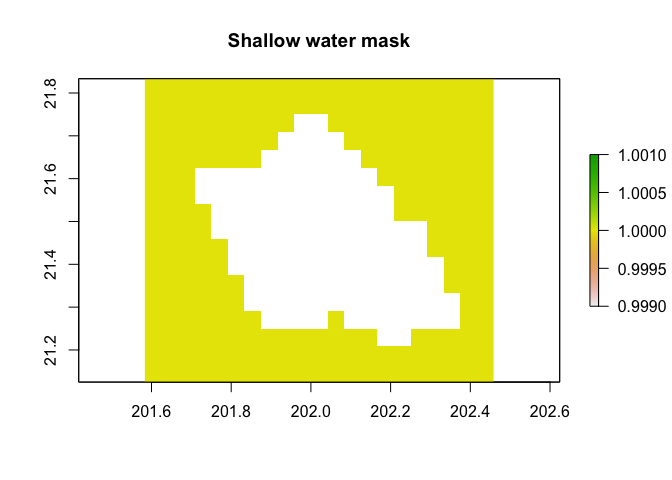
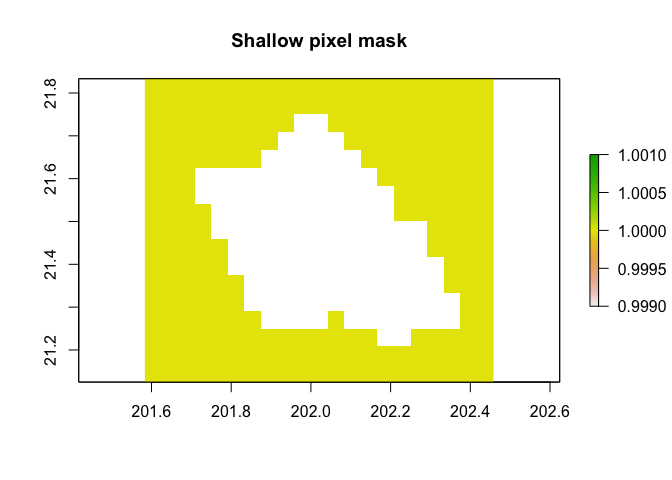
Structured code to put it into a template

Changed region(s): [[0.3438, 0.0625, 0.625, 0.125]]

diff --git a/mask-shallow-ocean-color/mask-shallow-ocean-color.md b/mask-shallow-ocean-color/mask-shallow-ocean-color.md
@@ -144,18 +144,18 @@ within each ocean color pixel is in shallow water (&lt;30m depth).
 
     # Build a raster of the chl-a grid, using the function to generate the shallow water area percentage to consider a pixel necessary to mask
     per_shallow =  rasterize(x = df_bathy,y=r_chl,fun=percent_shallow_pixels)[[2]]
-    plot(per_shallow,main="% Shallow Pixels", col=cmocean('amp')(50))
+    plot(per_shallow,main="% Shallow water", col=cmocean('amp')(50))
 
 ![](mask-shallow-ocean-color_files/figure-markdown_strict/unnamed-chunk-6-1.png)
 
 ## Create a mask for shallow pixels
 
-    # Set a percentage threshold to create the shallow water pixel mask
+    # Set a percentage threshold to create the shallow pixel mask
     percent_threshold = 0.05
     depth_mask = r_chl/r_chl
     depth_mask[,]= 1
     depth_mask[per_shallow>= percent_threshold]= NA
-    plot(depth_mask,main="Shallow water mask")
+    plot(depth_mask,main="Shallow pixel mask")
 
 ![](mask-shallow-ocean-color_files/figure-markdown_strict/unnamed-chunk-7-1.png)
 
@@ -189,7 +189,7 @@ within each ocean color pixel is in shallow water (&lt;30m depth).
 
 ![](mask-shallow-ocean-color_files/figure-markdown_strict/unnamed-chunk-9-1.png)
 
-## Output masked chl-a to netcdf file
+## Output masked chlorophyll-a data to a netCDF file
 
     # Grab var name and unit from unmasked nc file
     nc = nc_open(paste0(files))
